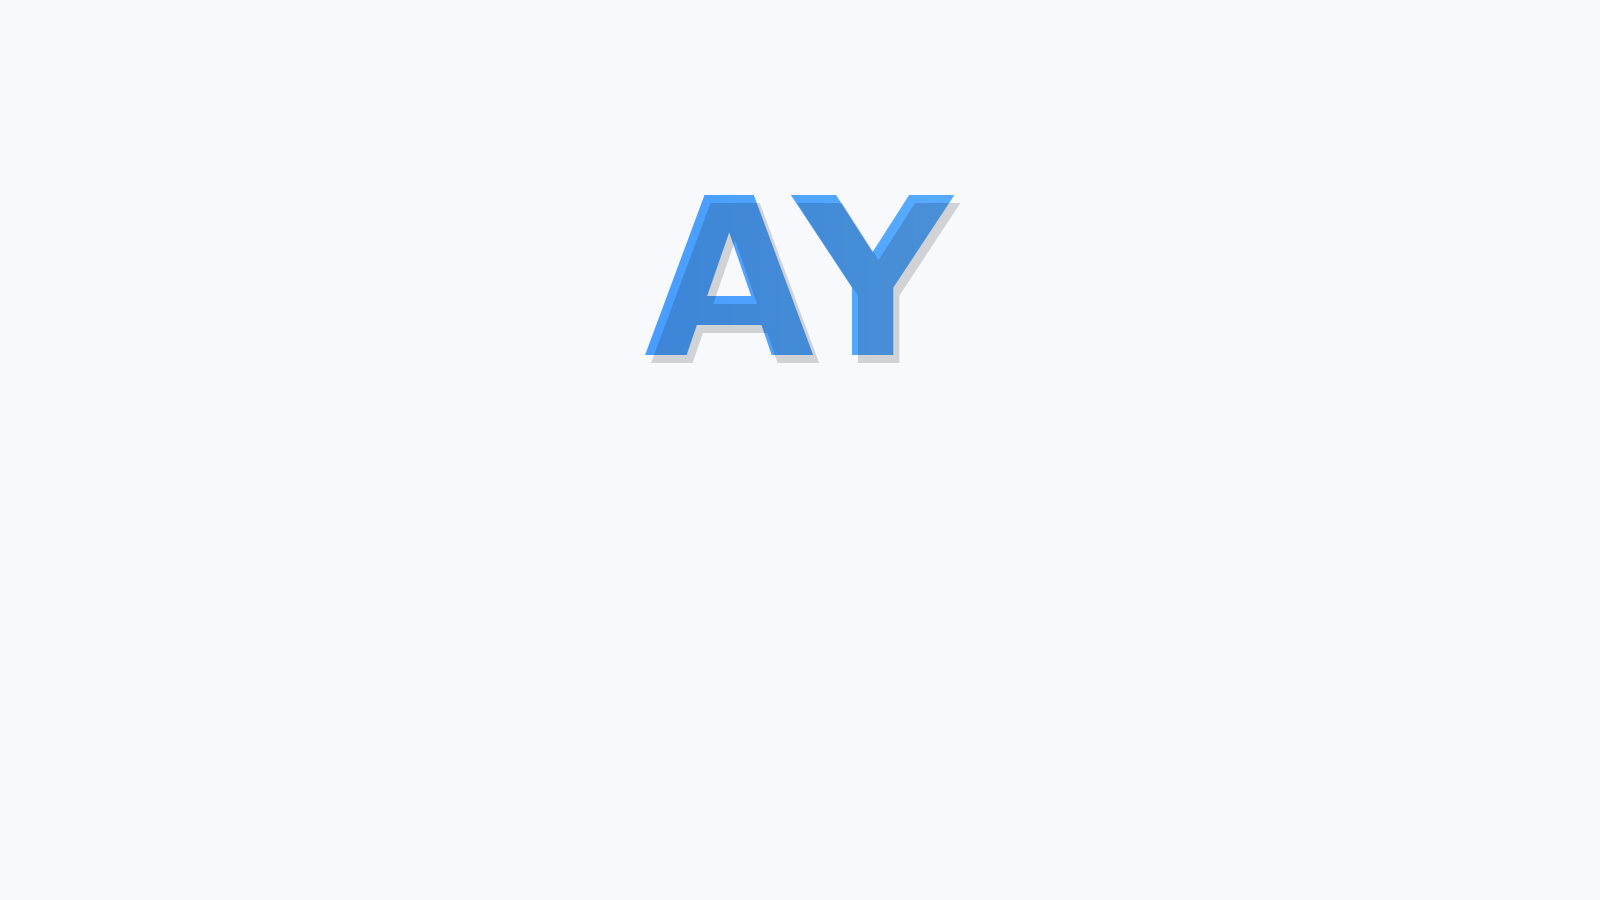
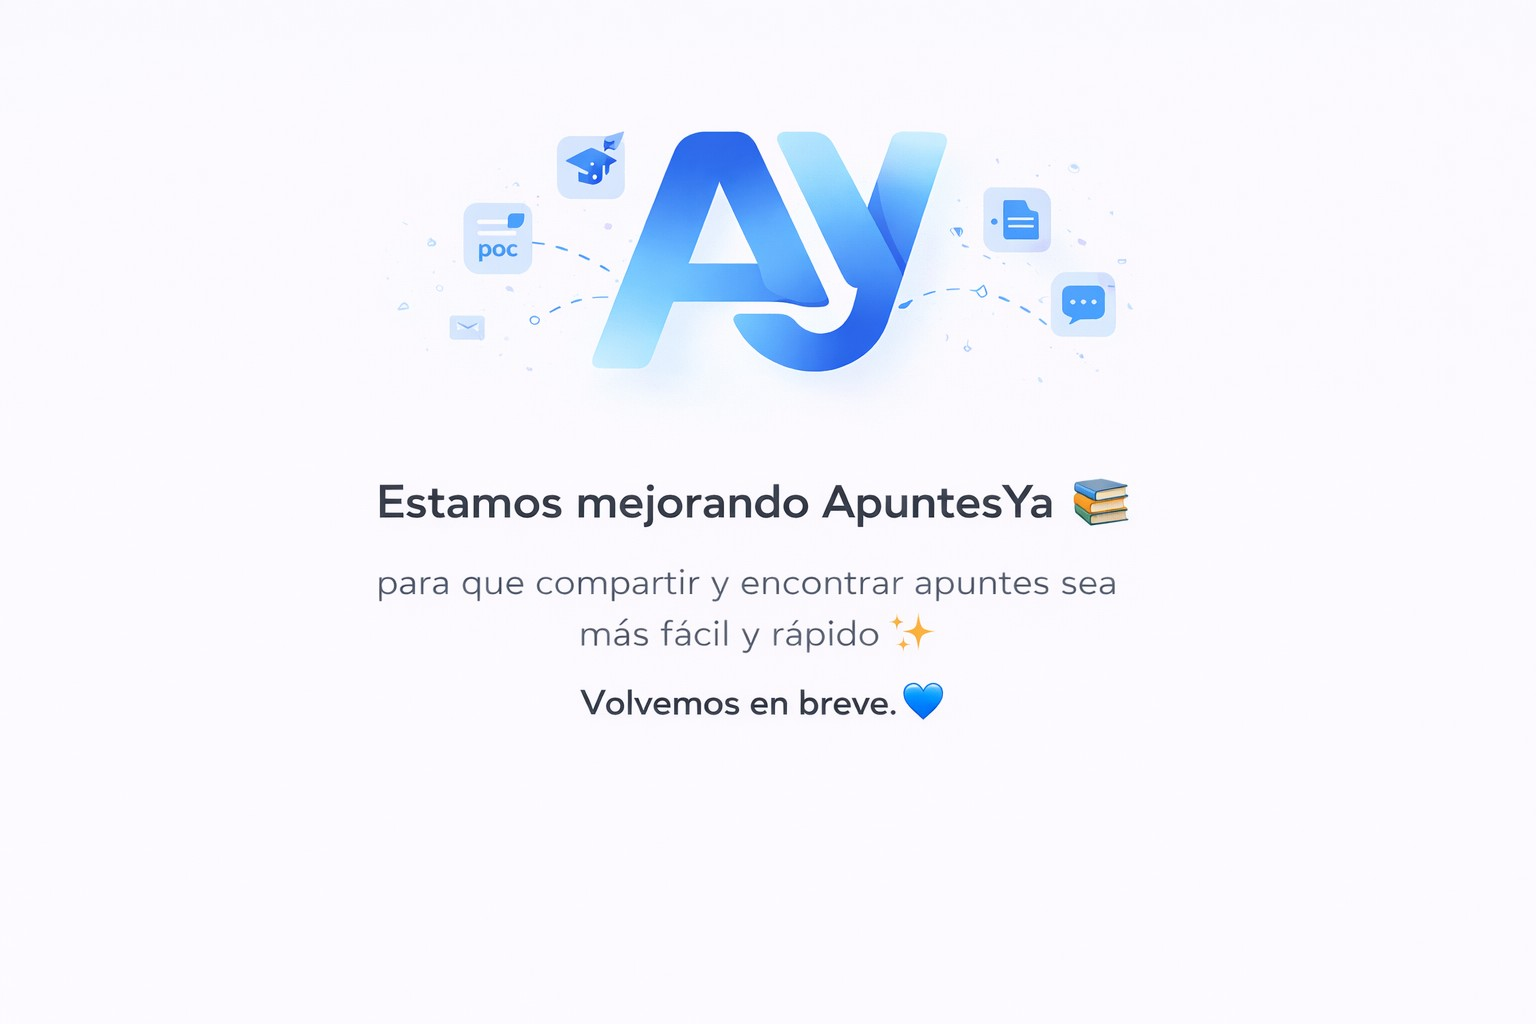
-seguridad-

diff --git a/apuntesya2/templates/profile.html b/apuntesya2/templates/profile.html
@@ -71,6 +71,7 @@
         {% endif %}
 
         <form method="post" action="{{ url_for('upload_profile_image') }}" enctype="multipart/form-data" style="margin-top:10px;">
+    <input type="hidden" name="csrf_token" value="{{ csrf_token() }}">
           <input id="pf-file" type="file" name="file" accept="image/*" style="display:none" onchange="this.form.submit()">
           <button type="button" class="btn-pill" onclick="document.getElementById('pf-file').click()">📸 Cambiar foto</button>
         </form>
@@ -99,6 +100,7 @@
         <div class="profile-right-box" style="margin-top:10px;">
           <h4>Mis datos de contacto (visible en mi perfil de vendedor)</h4>
           <form method="post" action="{{ url_for('profile_update_contact') }}">
+    <input type="hidden" name="csrf_token" value="{{ csrf_token() }}">
             <div style="display:grid;grid-template-columns:1fr;gap:10px;">
               <div>
                 <div class="profile-contact-label">Teléfono / WhatsApp</div>
@@ -181,6 +183,7 @@
             <p class="mp-status"><span class="mp-status-dot"></span><span>Cuenta de Mercado Pago conectada</span></p>
             <p class="muted" style="margin-top:6px;">Los pagos de tus ventas se acreditan en esta cuenta.</p>
             <form method="POST" action="{{ url_for('disconnect_mp_post') }}" style="margin-top:10px;">
+    <input type="hidden" name="csrf_token" value="{{ csrf_token() }}">
               <button class="btn-pill ghost" type="submit" onclick="return confirm('¿Desvincular tu cuenta de Mercado Pago?');">
                 Desvincular Mercado Pago
               </button>
@@ -197,11 +200,13 @@
           {% if current_user.is_suspended %}
             <p class="muted" style="margin-bottom:6px;">Tu cuenta está <b>suspendida</b>. Solo podés usar tu perfil hasta reactivarla.</p>
             <form method="POST" action="{{ url_for('account_reactivate') }}">
+    <input type="hidden" name="csrf_token" value="{{ csrf_token() }}">
               <button class="btn-pill" type="submit">Reactivar cuenta</button>
             </form>
           {% else %}
             <p class="muted" style="margin-bottom:6px;">Podés suspender tu cuenta para pausar toda actividad dentro de la plataforma.</p>
             <form method="POST" action="{{ url_for('account_suspend') }}">
+    <input type="hidden" name="csrf_token" value="{{ csrf_token() }}">
               <button class="btn-pill ghost" type="submit" onclick="return confirm('¿Suspender tu cuenta? Podrás reactivarla desde tu perfil.');">
                 Suspender cuenta
               </button>
@@ -214,6 +219,7 @@
             Tus apuntes/combos quedan disponibles <b>solo para quienes ya los compraron/descargaron</b>.
           </p>
           <form method="POST" action="{{ url_for('account_delete') }}" style="display:flex;gap:10px;align-items:center;flex-wrap:wrap;">
+    <input type="hidden" name="csrf_token" value="{{ csrf_token() }}">
             <input name="confirm" placeholder="Escribí ELIMINAR" style="padding:10px 12px;border:1px solid #e5e7f5;border-radius:12px;min-width:180px;" />
             <button class="btn-pill" type="submit" style="background:#ef4444;border-color:#ef4444;" onclick="return confirm('¿Eliminar cuenta definitivamente? Esta acción no se puede deshacer.');">
               Eliminar cuenta

diff --git a/apuntesya2/templates/maintenance.html b/apuntesya2/templates/maintenance.html
@@ -2,40 +2,43 @@
 {% block content %}
 
 <style>
-  .maint-shell{max-width:780px;margin:48px auto;padding:0 16px;}
-  .maint-card{background:#fff;border:1px solid #e5e7f5;border-radius:18px;padding:22px 20px;box-shadow:0 18px 50px rgba(15,23,42,.10)}
-  .maint-illu{margin:10px 0 14px;display:flex;justify-content:center;}
-  .maint-img{width:min(520px,100%);height:auto;border-radius:18px;box-shadow:0 18px 50px rgba(15,23,42,.12);animation:floaty 2.8s ease-in-out infinite;}
-  @keyframes floaty{0%,100%{transform:translateY(0)}50%{transform:translateY(-6px)}}
-  
-                            .maint-title{margin:0 0 8px;font-size:22px;font-weight:900;color:#111827}
-  .maint-text{margin:0;color:#4b5563;font-size:14px;line-height:1.5}
-  .maint-badge{display:inline-flex;align-items:center;gap:8px;margin-bottom:12px;padding:6px 10px;border-radius:999px;background:#f3f6ff;border:1px solid #dfe4ff;color:#334;font-weight:700;font-size:12px}
-  .maint-actions{margin-top:14px;display:flex;gap:10px;flex-wrap:wrap}
-  .btn2{padding:8px 14px;border-radius:999px;border:1px solid #dfe4ff;background:#f3f6ff;color:#334;font-weight:700;font-size:12px;text-decoration:none}
-  .btn2:hover{background:#e4e9ff}
-  .muted{font-size:12px;color:#6b7280;margin-top:10px}
+  .maint-shell{
+    max-width: 1100px;
+    margin: 28px auto;
+    padding: 0 16px;
+  }
+
+  .maint-card{
+    background: #fff;
+    border: 1px solid rgba(15, 23, 42, 0.08);
+    border-radius: 18px;
+    box-shadow: 0 12px 30px rgba(15, 23, 42, 0.08);
+    padding: 18px;
+    display: flex;
+    justify-content: center;
+    align-items: center;
+  }
+
+  .maint-img{
+    width: 100%;
+    max-width: 900px;   /* ajustable */
+    height: auto;
+    display: block;
+    border-radius: 14px; /* opcional: si querés suave */
+  }
+
+  /* Mobile: menos padding */
+  @media (max-width: 520px){
+    .maint-card{ padding: 12px; border-radius: 14px; }
+    .maint-img{ border-radius: 12px; }
+  }
 </style>
 
 <div class="maint-shell">
   <div class="maint-card">
-    <div class="maint-illu" aria-hidden="true">
-      <img class="maint-img" src="{{ url_for('static', filename='img/maintenance_ay.png') }}" alt="Gatito estudiando mientras hacemos mantenimiento" loading="eager" />
-    </div>
-
-    <div class="maint-badge">🛠 Modo mantenimiento</div>
-    <h1 class="maint-title">Estamos haciendo mejoras</h1>
-    <p class="maint-text">
-      La web está temporalmente en mantenimiento para actualizar funciones.
-      Volvé a intentar en unos minutos.
-    </p>
-    <div class="maint-actions">
-      <a class="btn2" href="{{ url_for('index') }}">Volver al inicio</a>
-      {% if CONTACT_EMAILS and CONTACT_EMAILS|length > 0 %}
-      <a class="btn2" href="mailto:{{ CONTACT_EMAILS[0] }}">Contactar soporte</a>
-      {% endif %}
-    </div>
-    <div class="muted">Código: 503</div>
+    <img class="maint-img"
+         src="{{ url_for('static', filename='img/maintenance_ay.png') }}"
+         alt="ApuntesYa en mantenimiento">
   </div>
 </div>
 

diff --git a/apuntesya2/templates/my_notes_hub.html b/apuntesya2/templates/my_notes_hub.html
@@ -142,6 +142,7 @@
                   <a class="btn-mini" href="{{ url_for('note_detail', note_id=n.id) }}">👁 Ver</a>
                   <a class="btn-mini primary" href="{{ url_for('seller_edit_note_get', note_id=n.id) }}">✏ Editar</a>
                   <form method="post" action="{{ url_for('seller_delete_note', note_id=n.id) }}" style="display:inline">
+    <input type="hidden" name="csrf_token" value="{{ csrf_token() }}">
                     <button class="btn-mini danger" type="submit" onclick="return confirm('¿Eliminar este apunte?');">🗑 Eliminar</button>
                   </form>
                 </div>
@@ -173,6 +174,7 @@
                   <a class="btn-mini" href="{{ url_for('combo_detail', combo_id=c.id) }}">👁 Ver</a>
                   <a class="btn-mini primary" href="{{ url_for('combo_edit', combo_id=c.id) }}">✏ Editar</a>
                   <form method="post" action="{{ url_for('combo_delete', combo_id=c.id) }}" style="display:inline">
+    <input type="hidden" name="csrf_token" value="{{ csrf_token() }}">
                     <button class="btn-mini danger" type="submit" onclick="return confirm('¿Eliminar este combo?');">🗑 Eliminar</button>
                   </form>
                 </div>

diff --git a/apuntesya2/templates/my_content_edit.html b/apuntesya2/templates/my_content_edit.html
@@ -115,6 +115,7 @@
                 <a href="{{ url_for('seller_edit_note_get', note_id=n.id) }}" class="btn-pill ghost">Editar</a>
                 <form method="post" action="{{ url_for('seller_delete_note', note_id=n.id) }}" style="display:inline"
                       onsubmit="return confirm('¿Eliminar este apunte? Se despublicará y se borrará el archivo asociado.');">
+    <input type="hidden" name="csrf_token" value="{{ csrf_token() }}">
                   <button type="submit" class="btn-pill danger" style="border:0;">Eliminar</button>
                 </form>
               </div>
@@ -161,6 +162,7 @@
                 <a class="btn-pill ghost" href="{{ url_for('combo_edit', combo_id=c.id) }}">Editar</a>
                 <form method="post" action="{{ url_for('combo_delete', combo_id=c.id) }}" style="display:inline"
                       onsubmit="return confirm('¿Eliminar este combo? Se despublicará.');">
+    <input type="hidden" name="csrf_token" value="{{ csrf_token() }}">
                   <button type="submit" class="btn-pill danger" style="border:0;">Eliminar</button>
                 </form>
               </div>

diff --git a/apuntesya2/templates/admin/moderation.html b/apuntesya2/templates/admin/moderation.html
@@ -75,9 +75,11 @@
           </div>
           <div style="display:flex;gap:8px;align-items:flex-start;">
             <form method="post" action="/admin/moderation/combo/{{ c.id }}/approve">
+    <input type="hidden" name="csrf_token" value="{{ csrf_token() }}">
               <button type="submit" style="padding:10px 12px;border-radius:12px;border:1px solid #d1fae5;background:#ecfdf5;font-weight:800;">Aprobar</button>
             </form>
             <form method="post" action="/admin/moderation/combo/{{ c.id }}/reject">
+    <input type="hidden" name="csrf_token" value="{{ csrf_token() }}">
               <input type="hidden" name="reason" value="Denegado por moderación manual.">
               <button type="submit" style="padding:10px 12px;border-radius:12px;border:1px solid #fee2e2;background:#fef2f2;font-weight:800;">Rechazar</button>
             </form>

diff --git a/apuntesya2/templates/admin/maintenance.html b/apuntesya2/templates/admin/maintenance.html
@@ -36,12 +36,14 @@
         {% if maintenance_on %}
           <span class="badge on">✅ Activo</span>
           <form method="post" action="{{ url_for('admin_toggle_maintenance') }}" style="margin:0">
+    <input type="hidden" name="csrf_token" value="{{ csrf_token() }}">
             <input type="hidden" name="mode" value="0">
             <button class="btn danger" type="submit">Desactivar</button>
           </form>
         {% else %}
           <span class="badge off">⛔ Inactivo</span>
           <form method="post" action="{{ url_for('admin_toggle_maintenance') }}" style="margin:0">
+    <input type="hidden" name="csrf_token" value="{{ csrf_token() }}">
             <input type="hidden" name="mode" value="1">
             <button class="btn" type="submit">Activar</button>
           </form>

diff --git a/apuntesya2/templates/admin/tools.html b/apuntesya2/templates/admin/tools.html
@@ -46,6 +46,7 @@
       <p class="muted" style="margin:0 0 10px;color:#7f1d1d;">Borra histórico (compras, descargas, eventos, estadísticas, apuntes/combos, usuarios normales). <b>No elimina superadmins</b>.</p>
 
       <form method="post" action="{{ url_for('admin_reset_platform') }}" style="display:flex;gap:10px;flex-wrap:wrap;align-items:flex-end;">
+    <input type="hidden" name="csrf_token" value="{{ csrf_token() }}">
         <div style="flex:1;min-width:240px;">
           <label class="muted" style="display:block;margin-bottom:6px;color:#7f1d1d;">Escribí <b>RESET</b> para confirmar</label>
           <input class="inp" name="confirm" placeholder="RESET" autocomplete="off" />

diff --git a/apuntesya2/templates/profile_combos.html b/apuntesya2/templates/profile_combos.html
@@ -123,6 +123,7 @@
         <a class="btn ghost" style="margin-top:8px" href="{{ url_for('combo_detail', combo_id=c.id) }}">Ver</a>
         <a class="btn btn-secondary" style="margin-top:8px" href="{{ url_for('combo_edit', combo_id=c.id) }}">Editar</a>
         <form method="post" action="{{ url_for('combo_delete', combo_id=c.id) }}" style="margin-top:8px" onsubmit="return confirm('¿Eliminar este combo? Se despublicará.');">
+    <input type="hidden" name="csrf_token" value="{{ csrf_token() }}">
           <button type="submit" class="btn btn-danger" style="width:100%">Eliminar</button>
         </form>
       </div>

diff --git a/apuntesya2/admin/templates/admin/files_list.html b/apuntesya2/admin/templates/admin/files_list.html
@@ -22,6 +22,7 @@
       <td>{{ n.created_at }}</td>
       <td>
         <form method="post" action="{{ url_for('admin.hard_delete_note', note_id=n.id) }}" onsubmit="return confirm('Eliminar permanentemente? Esta acción NO se puede deshacer.');">
+    <input type="hidden" name="csrf_token" value="{{ csrf_token() }}">
           <input type="hidden" name="reason" value="admin_manual_delete"/>
           <button class="btn btn-danger btn-sm" type="submit">Eliminar permanentemente</button>
         </form>

diff --git a/apuntesya2/admin/templates/admin/users_files.html b/apuntesya2/admin/templates/admin/users_files.html
@@ -43,6 +43,7 @@
           <td>
             <form action="{{ url_for('admin.delete_user_file', note_id=n.id) }}" method="post"
               onsubmit="return confirm('¿Borrar este archivo (soft delete)?');">
+    <input type="hidden" name="csrf_token" value="{{ csrf_token() }}">
               <input type="hidden" name="reason" value="admin_users_files_delete" />
               {% if n.is_reported is defined and n.is_reported %}
               <input type="hidden" name="force" value="1" />

diff --git a/apuntesya2/templates/admin/faq_list.html b/apuntesya2/templates/admin/faq_list.html
@@ -32,6 +32,7 @@
       <td class="text-end">
         <a class="btn btn-sm btn-outline-secondary" href="{{ url_for('admin_faq.edit_faq', faq_id=f.id) }}">Editar</a>
         <form class="d-inline" method="post" action="{{ url_for('admin_faq.delete_faq', faq_id=f.id) }}" onsubmit="return confirm('¿Eliminar FAQ?');">
+    <input type="hidden" name="csrf_token" value="{{ csrf_token() }}">
           <button class="btn btn-sm btn-outline-danger">Eliminar</button>
         </form>
       </td>

diff --git a/apuntesya2/templates/auth_reset/reset_password_request.html b/apuntesya2/templates/auth_reset/reset_password_request.html
@@ -4,6 +4,7 @@
   <h1 class="text-2xl font-bold mb-4">Restablecer contraseña</h1>
   <p class="mb-4">Ingresá tu email. Si existe una cuenta, te enviaremos un enlace para restablecer la contraseña.</p>
   <form method="post" class="space-y-4">
+    <input type="hidden" name="csrf_token" value="{{ csrf_token() }}">
     <div>
       <label class="block mb-1">Email</label>
       <input name="email" type="email" required class="w-full border rounded p-2">
